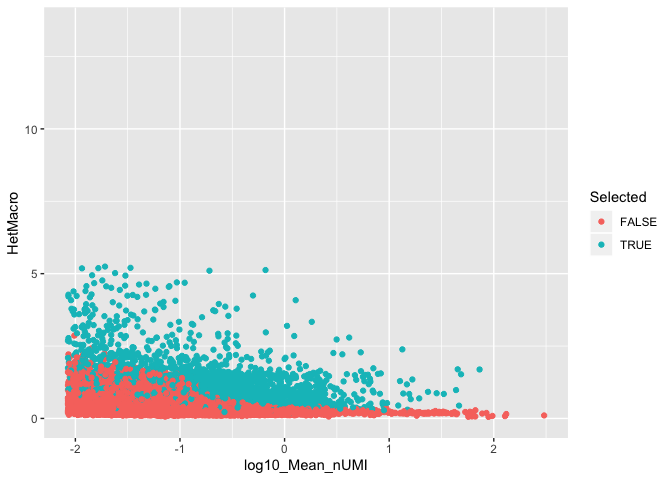
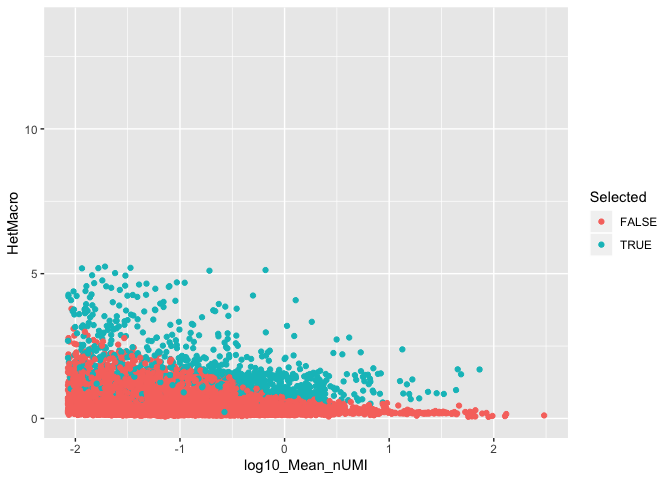
Update info threshold

Changed region(s): [[0.0938, 0.6875, 0.5938, 0.875]]

diff --git a/README.md b/README.md
@@ -31,7 +31,7 @@ load("../Data/10x/CountsMatrix")
 load("../Data/10x/Identity")
 
 MinTotal <- 100
-InfoThreshold <- 0.25
+InfoThreshold <- 0.5
 
 Total <- Matrix::rowSums(CountsMatrix)
 if(any(Total < MinTotal)){
@@ -61,7 +61,7 @@ ggplot(HetDataFrame, aes(x = log10_Mean_nUMI, y = Het, colour = Selected)) + geo
   geom_line(aes(y = Null_Model), colour = "black") + 
   ylim(0, log2(N))
 #> Warning: Removed 14 rows containing missing values (geom_point).
-#> Warning: Removed 14 rows containing missing values (geom_path).
+#> Warning: Removed 332 rows containing missing values (geom_path).
 ```
 
 <img src="man/figures/README-unnamed-chunk-3-1.png" width="100%" />
